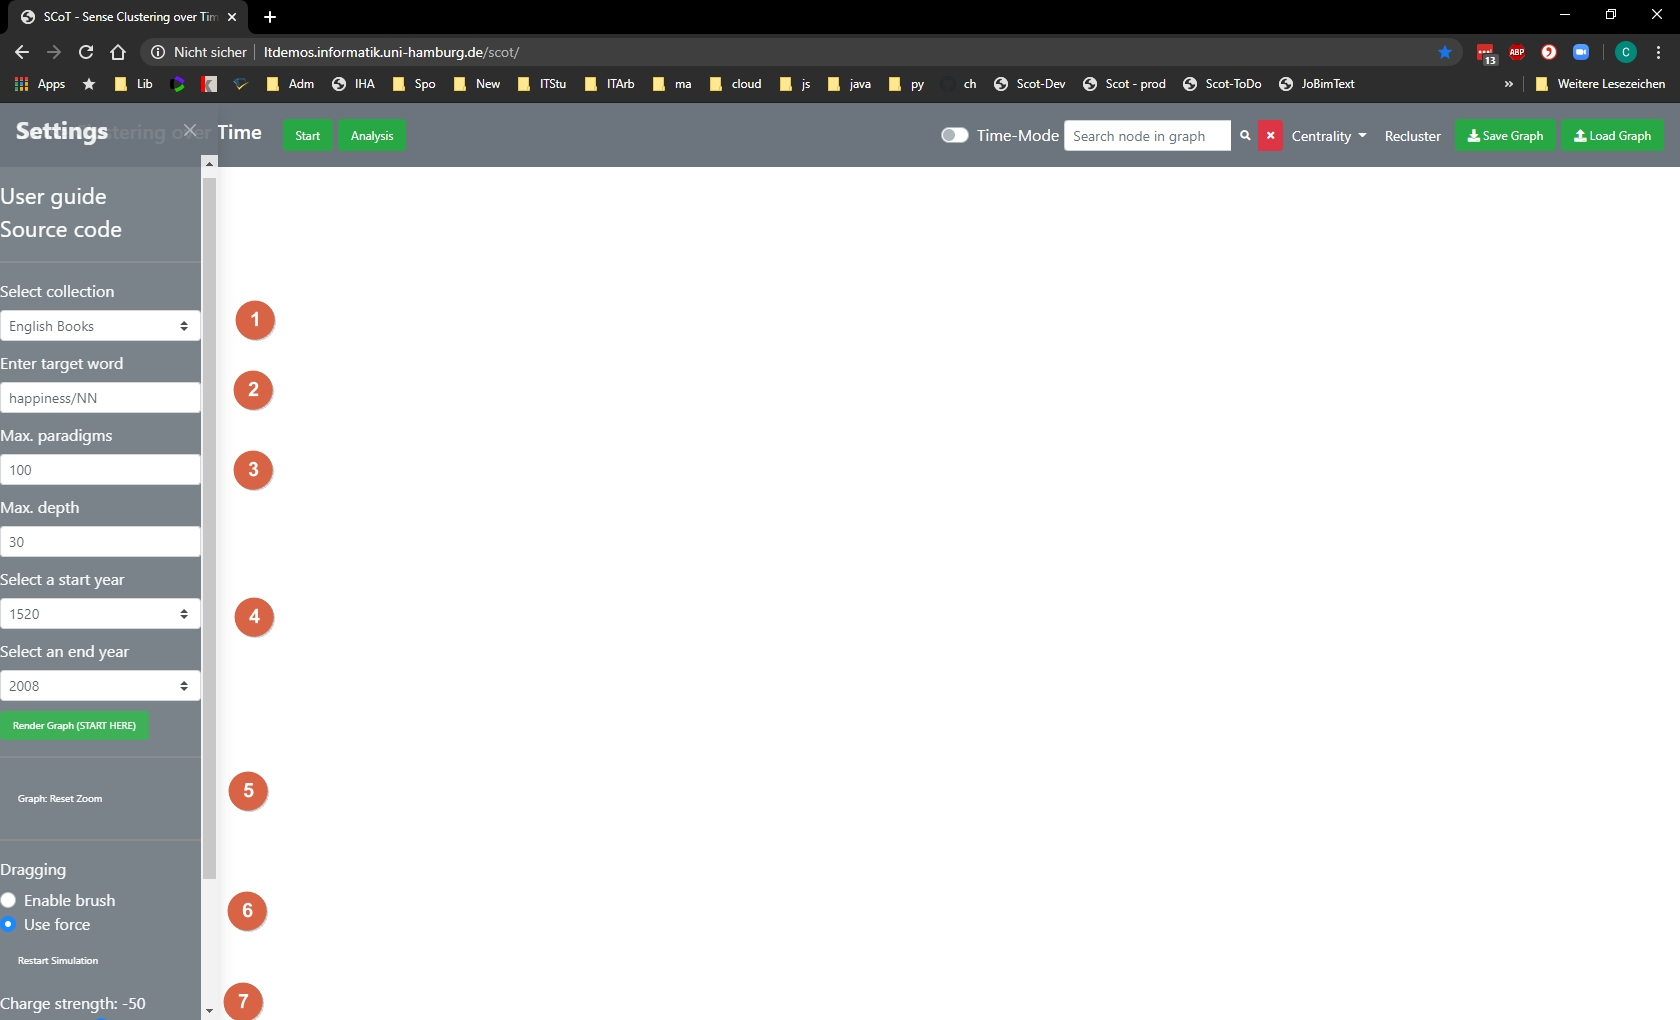
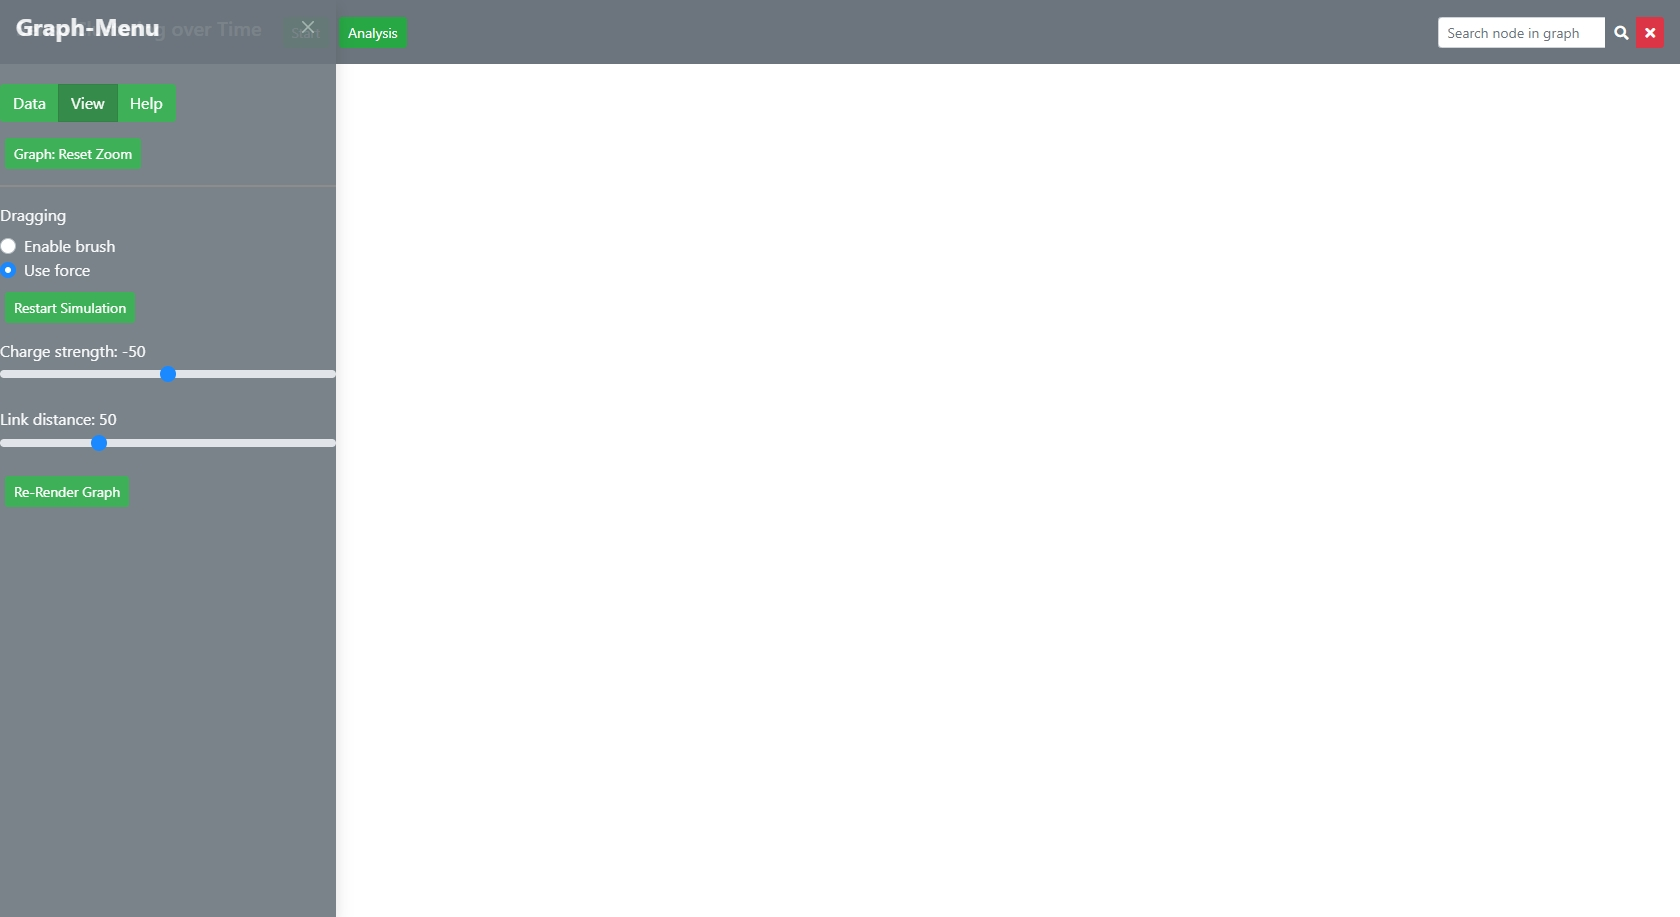
various user guide updates

Changed region(s): [[0.0, 0.0, 1.0, 1.0], [0.0, 0.8244, 0.0619, 0.9466], [0.0, 0.7634, 0.0619, 0.7939]]

diff --git a/clusters.md b/clusters.md
@@ -1,13 +1,14 @@
-# Editing the Graph via the Functions of the Editing Sidebar
+# Cluster-Analysis-Menu
 
 [Back to user guide contents list](userGuide.md)
 
-The graph and the clusters produced by the program can be edited and, if necessary, corrected. The user can decide between two different dragging behaviours, as well as influence parameters of the force simulation, which is used to calculate the position of the nodes in the graph. In this section I will describe all the functionalities avaibable in the toggable editing sidebar. For more information on how to manipulate the graph directly, see [the section on interacting with the graph](interacting.md).
+After clicking the Analysis - Button on the Navigation-Bar, the user is presented with an analysis-menu on the right-hand side of the screen. The Cluster-Setting brings up a  list of the clusters for further analysis and editing.
+
+![Analysis Menu](./images/03_analysis_menu.jpg)
+
 
 ## Contents
 
-* [Choosing the Dragging Behaviour](#choosing-the-dragging-behaviour)
-* [Manipulate the Simulation](#manipulate-the-simulation)
 * [Editing the Clusters](#editing-the-clusters)
 * [Edit Cluster Name](#edit-cluster-name)
 * [Edit Cluster Colour](#edit-cluster-colour)
@@ -16,53 +17,16 @@ The graph and the clusters produced by the program can be edited and, if necessa
 * [Delete Complete Cluster](#delete-complete-cluster)
 
 
-## Choosing the Dragging Behaviour
-
-![Dragging Behaviour Setting](./images/dragging_restart_sim.png)
-
-The user can select between two different kinds of dragging behaviour.
-
-1. **Enable brush (no force).** This enables to user to select multiple nodes at the same time using a brush movement and dragging all of them at the same time to a different position. The force is not acitve, so that the other nodes to not reposition themselves.
-2. **Use force (no brush available).** This is the default dragging behaviour. Only one node can be dragged at a time and the other nodes reposition themselves according to the force simulation. The dragged node is then fixed to its new position, which means that its position does not change if the force parameters are updated or other nodes dragged somewhere.
-
-All the nodes that are fixed to their position can be released by clicking on the button "Restart Simulation".
-
-For how to drag nodes in the graph, see [the section on interacting with the graph](interacting.md).
-
-[To the top](#editing-the-graph-via-the-functions-of-the-editing-sidebar)
-
-
-## Manipulate the Simulation
-
-![Default Simulation Settings](./images/default_simulation_settings.png)
-
-SCoT lets you edit two simulation parameters: the charge strength between the nodes and the link distance.
-The default value for the charge strength is -50, the default value for the link distance is 50.
-A graph with 100 nodes, 30 edges and these simulation parameter values looks like this:
-
-![Default Graph](./images/graph_for_intro.png){:height="75%" width="75%"}
-
-The use can change the value of the charge strength from values in the range of -200 to 100. Changing the charge strength influences the repelling forces between the nodes. The same graph with a charge strength of -100 and the default link distance looks as follows:
-
-![Graph Charge -100](./images/graph_charge-100.png)
-
-As a rule of thumb, a negative charge strength pushes the nodes further apart, simulating repulsion, and a positive charge strength pushes nodes together, simulating gravity or attraction.
-
-
-The link distance influences the distance between nodes and therefore the length of the edges between them. A high link distance means a long distance between nodes, a low link distance means a small distance between nodes. The following example shows and graph with a link distance of 150 and the default charge.
-
-![Graph Link Distance 360](./images/graph_linkdistance150.png) 
-
 [To the top](#editing-the-graph-via-the-functions-of-the-editing-sidebar)
 
 
 ## Editing the Clusters
 
-In the edit column all the clusters in the graph are listed. For each cluster there are three buttons: one to edit the cluster and another to display a list of all the nodes contained in the respective cluster, and one to delete the cluster.
+In the edit column all the clusters in the graph are listed. For each cluster there are four buttons: one to show the nodes of the cluster, one to show the context-words that are shared by all nodes of the cluster, one to edit the cluster and another to delete the cluster.
 
 ![Cluster List](./images/cluster_list.png)
 
-When hovering over the coloured circle next to the cluster name, all the nodes and edges in the graph belonging to the cluster are faded in in the graph.
+When hovering over the cluster and context buttons, all the nodes and edges in the graph belonging to the cluster are faded in in the graph.
 
 ![Fade In Cluster](./images/show_cluster_in_graph2.png)
 
@@ -98,7 +62,14 @@ The user can edit multiple clusters before clicking the "Apply" button to make t
 [To the top](#editing-the-graph-via-the-functions-of-the-editing-sidebar)
 
 
-## Add Cluster Node
+## Delete Complete Cluster
+
+Complete cluster can be deleted via the button with the trash icon. The user then has to confirm the deletion in a confirmation message. When the user confirms all the nodes and links of the cluster are deleted.
+
+![Confirm Cluster Deletion](./images/confirmation_cluster_deletion.png){:height="75%" width="75%"}
+
+
+## Add Cluster Node [currently under revision - not enabled]
 
 The user can also add a special node with the cluster name to the graph for each cluster - sort of like a label for a cluster. This node has edges to all the other nodes in the cluster.
 
@@ -122,12 +93,5 @@ The same behaviour is displayed when updating the graph.
 In case the user wants to get rid of the cluster node of a cluster, they have two possibilities. Both are explained in [the section on interacting with the graph](interacting.md).
 
 [To the top](#editing-the-graph-via-the-functions-of-the-editing-sidebar)
-
-
-## Delete Complete Cluster
-
-Complete cluster can be deleted via the button with the trash icon. The user then has to confirm the deletion in a confirmation message. When the user confirms all the nodes and links of the cluster are deleted.
-
-![Confirm Cluster Deletion](./images/confirmation_cluster_deletion.png){:height="75%" width="75%"}
 
 [To the top](#editing-the-graph-via-the-functions-of-the-editing-sidebar)

diff --git a/intro.md b/intro.md
@@ -4,30 +4,28 @@
 
 You can find SCoT at <http://ltdemos.informatik.uni-hamburg.de/scot/>
 
-SCoT is a scholarly software for the graph-based analysis of distributional semantics over time. The software has emerged from interdisciplinary cooperation among computer scientists, computational linguists and humanities scholars. It has been propelled forward by the growing availability of very large corpora of time-sliced digitized texts such as Google Books. There are manifold use cases. SCoT has been used, for example, to unearth the changing meaning of "network" from the fishing-metaphors of the medieval ages to the digital era.
+SCoT is a scholarly software for the graph-based analysis of distributional semantics over time. There are manifold use cases. SCoT has been used, for example, to unearth the changing meaning of "network" from the fishing-metaphors of the medieval ages to the digital era.
 
 ![A clustered graph](./images/00appwithgraph.jpg "Clustered graph for target word 'happiness/NN', 100 nodes, 30 edges per node, 1520-2008" )
 
-The user starts the programm by selecting a precalculated corpus [1] and a target-word [2]. The corpora include the original Google Books corpus. The calculation of the semantic similarity metrics is not done by SCoT. The metrics are precalculated by the JoBim-Framework. The main task of SCoT is to analyse these metrics in relation to the target-word with a clustered graph[8]. 
+The user starts the programm by selecting a precalculated corpus [1] and a target-word [2]. The metrics have been precalculated by the JoBim-Framework. The main task of SCoT is to analyse these metrics with a clustered graph[8]. The user can control the size and density of the graph with two parameters, the maximum number of (most) similar words to the main target-word [3] and the density of the interrelations. [4] 
 
-The most similar words and their interrelations are projected onto a graph. The user can control the size and density of the graph with two parameters, the maximum number of (most) similar words to the main target-word [3] and the density of the interrelations. [4] The values are then projected onto the graph by SCoT's main algorithm which was designed by Biemann. This main algorithm chooses the most similar words across all time-slices. The key to the analysis is the global threshold of paradigms [nodes] and their interrelations [edges] that is set by the user. This global limit determines which nodes are considered "relevant" and "irrelevant" across the selected time-slices [5,6] and thus determines the resulting senses of the target word. Each corpus comes with a pre-set but it is highly recommended to try out various parameters to get a "feel" for their effect.
-
- After the user clicks on "Render Graph" [7] - the algorithm runs in several stages. Firstly, it chooses the maximum similar values to the target word. These provide the nodes. Within this reference-frame of paradigms, the algorithm determines the edges. The graph is then clustered with the Chinese Whispers Algorithms by Biemann. 
+Scot then chooses the most similar words across all time-slices. The key to the analysis is the global threshold of paradigms [nodes] and their interrelations [edges] that is set by the user. This global limit determines which nodes are considered "born" or "dying" across the selected time-slices [5,6]. Each corpus comes with a pre-set of the parameters but it is highly recommended to try out various parameters to get a "feel" for their effect. The graph is created by clicking "Render Graph" [7]. 
  
- ## General Structure
 ![The general structure](./images/01workspace_arrow_start.jpg "The general structure of the user interface" )
-The picture above shows the general structure of the web page after a graph was rendered for the query "happiness/NN".
 
- 
- The resulting graph is a combination of maximum-values across time-slices. The time-slices can be gathered from the tool-tips of the nodes [4] and edges [5] and can also be visualized in various ways in the time-diff mode. After the initial graph has been calculated by SCoT, the user can edit and correct clusters in different ways. 
- Most of these functions are available via these three roots:
- [1] The Start-Button enables the shaping of the graph and the editing of the view settings that shape the display of the graph
+The picture above shows the general structure of the web page after a graph was rendered for the query "happiness/NN".
+The resulting graph is a combination of maximum-values across time-slices. The time-slices can be gathered from the tool-tips of the nodes [4] and edges [5] and can also be visualized in various ways in the time-diff mode. After the initial graph has been calculated by SCoT, the user can edit and correct clusters in different ways. Most of these functions are available via the three main ways of interacting with the application:
+
+ [1] The Start-Button slides out the Graph-Menu on the left which enables the shaping of the graph and the editing of the view settings that shape the display of the graph.  
  [More info on the settings sidebar](renderingGraph.md)  
- [2] The Analysis Button - brings up the cluster analysis section with the time-diff mode
+ 
+ [2] The Analysis Button - brings up the cluster analysis section with the time-diff mode on the right-hand side.  
  [More info on the analysis options](clusters.md)  
- [3] The Search Field allows the searching of nodes in the graph
- [4] The Nodes provide tooltips and can be clicked for contextual information
- [5] The edges provide tooltips and can be clicked for contextual information
- [More info on the contextual mode via nodes and edges]
+ [More info on the time-diff mode](timeDiff.md)
+ 
+ [3] The nodes and edges of the graph provide tooltips, can be dragged, rearranged, deleted and can be clicked for contextual information.  
+ [More info on the interaction with the graph](interacting.md)  
+ [More info on the contextual mode](context.md)
  
  

diff --git a/renderingGraph.md b/renderingGraph.md
@@ -1,4 +1,4 @@
-# Parameter Input and General Settings
+# Graph-Menu: Parameter Input and View Settings
 
 [Back to user guide contents list](userGuide.md)
 
@@ -10,29 +10,63 @@ A sidebar to change the general settings of SCoT and enter the parameters for re
 * [Rendering a Graph from a File](#rendering-a-graph-from-a-file)
 
 ## Parameter Input for Rendering a Graph
-When the user first opens SCoT, they may either render a new graph by entering the required parameters in the left column or they can load a previously stored graph again from a file.
+When the user first opens SCoT, it is recommended to click the START-button which brings up the graph-menu. The graph menu allows either to shape a new graph (as explained on the last page) OR to load and save a calculated graph. 
 
-The image shows a new session.
+![Clean new session](./images/00appwithgraph.jpg "New Session")
+
+Secondly, the user can set display settings, including  
+- resetting to the preset-display settings
+- Enabling interaction with the full graph or parts of it
+- Further, the graph is displayes using a force-directed algorithm. 
+
+The user can decide between two different dragging behaviours, as well as influence parameters of the force simulation, which is used to calculate the position of the nodes in the graph. For more information on how to manipulate the graph directly, see [the section on interacting with the graph](interacting.md).
+
 
 ![Clean new session](./images/02_settings.jpg "New Session")
+
+
+## Choosing the Dragging Behaviour
+
+![Dragging Behaviour Setting](./images/dragging_restart_sim.png)
+
+The user can select between two different kinds of dragging behaviour.
+
+1. **Enable brush (no force).** This enables to user to select multiple nodes at the same time using a brush movement and dragging all of them at the same time to a different position. The force is not acitve, so that the other nodes to not reposition themselves.
+2. **Use force (no brush available).** This is the default dragging behaviour. Only one node can be dragged at a time and the other nodes reposition themselves according to the force simulation. The dragged node is then fixed to its new position, which means that its position does not change if the force parameters are updated or other nodes dragged somewhere.
+
+All the nodes that are fixed to their position can be released by clicking on the button "Restart Simulation".
+
+For how to drag nodes in the graph, see [the section on interacting with the graph](interacting.md).
+
+[To the top](#editing-the-graph-via-the-functions-of-the-editing-sidebar)
+
+
+## Manipulate the Simulation
+
+![Default Simulation Settings](./images/default_simulation_settings.png)
+
+SCoT lets you edit two simulation parameters: the charge strength between the nodes and the link distance.
+The default value for the charge strength is -50, the default value for the link distance is 50.
+A graph with 100 nodes, 30 edges and these simulation parameter values looks like this:
+
+![Default Graph](./images/graph_for_intro.png){:height="75%" width="75%"}
+
+The use can change the value of the charge strength from values in the range of -200 to 100. Changing the charge strength influences the repelling forces between the nodes. The same graph with a charge strength of -100 and the default link distance looks as follows:
+
+![Graph Charge -100](./images/graph_charge-100.png)
+
+As a rule of thumb, a negative charge strength pushes the nodes further apart, simulating repulsion, and a positive charge strength pushes nodes together, simulating gravity or attraction.
+
+
+The link distance influences the distance between nodes and therefore the length of the edges between them. A high link distance means a long distance between nodes, a low link distance means a small distance between nodes. The following example shows and graph with a link distance of 150 and the default charge.
+
+![Graph Link Distance 360](./images/graph_linkdistance150.png) 
 
 [To the top](#parameter-input-and-general-settings)
 
 
-### Rendering a New Graph from the Database
 
-If the user wants to render a new graph from the database, he or she needs to specify some parameters.  
-  
-Firstly, there are parameters that affect the data-basis, content, time-context and structure of the graph
-(1) The user needs to pick a database. This brings up several presets for the other settings-options which can be modified by the user.   
-(2) The user needs to choose a target word. 
-(3) The user needs to be specify how many nodes the graph should contain (a.k.a. "Number of neighbours"), as well as the maximum number of edges on a node. default, the number of neighbours is set to 100 (regulating the number of visible paradigms) and the maximum number of edges per paradigm is set to 30 (regulating the density of the graph, smaller numbers result usually in more clusters).  
-(4) The user needs to set the start and end years for the time-slice-interval analysis. Per default, this is set to encompass all the time slices (1520 - 2008 for Google Books).   
-  
-Secondly, the user can set display settings, including  
-(5) resetting to the preset-display settings
-(6) Enabling interaction with the full graph or parts of it
-(7) Further, the graph is displayes using a force-directed algorithm. The strength of the force can be altered and the distance between nodes.  
+
 
 <!-- Leave note -->
 **Note:** For the Google Books data, the respective part-of-speech tag needs to be appended to the query word. The correct query word for “crisis” would therefore be “crisis/NN” or “crisis/NNP”. The data uses the [Penn Treebank POS tags](https://www.ling.upenn.edu/courses/Fall_2003/ling001/penn_treebank_pos.html). Other data might have different tags, or none.

diff --git a/index.md b/index.md
@@ -2,7 +2,7 @@ SCoT (Sense Clustering over Time) [Verison2] is a web application to view the se
 
 The functionalities and usage are described in the [user guide](userGuide.md). If you would like to deploy SCoT yourself or keep working on it see the [installation guide](installationGuide.md) for developers for more information.
 
-The project is maintained by the [Language Technology Group at Universität Hamburg](https://www.inf.uni-hamburg.de/en/inst/ab/lt/home.html). The second version [Vue-Frontend, Flask-Backend + ElasticSearch + Docker] was developed by Christian Haase, the first one by Inga Kempfert. Scot uses data that are calculated with JoBim. It is thus the end-part of a larger NLP-pipeline. Calcuations with JoBim for the SCoT-data of Version 2 were done by Seid Yimam and Saba Anwar. The underlying concepts and algorithms for SCoT are based on the publications by Biemann, Friedrich, Riedel et. al.. The time-slicing of Google books was pioneered by Goldberg and Orwant.
+The project is maintained by the [Language Technology Group at Universität Hamburg](https://www.inf.uni-hamburg.de/en/inst/ab/lt/home.html). Version 2 of SCoT is a major update which was developed by Christian Haase. Inga Kempfert was the lead dev of Version 1. Scot uses data that are calculated with JoBim. It is thus part of a larger NLP-pipeline. Calcuations with JoBim for the SCoT-data of Version 2 were done by Seid Yimam and Saba Anwar. The underlying concepts and algorithms for SCoT are based on the publications by Biemann, Friedrich, Riedel et. al.. (see below) The time-slicing of Google books was pioneered by Goldberg and Orwant.
 
 **Developers:**
 * [Christian Haase](https://www2.informatik.uni-hamburg.de/fiona/pers.php?lang=de#haase) [Version 2]

diff --git a/interacting.md b/interacting.md
@@ -1,17 +1,17 @@
-# Interacting with the Graph
+# Interacting with the Graph-Nodes and Edges
 
 [Back to user guide contents list](userGuide.md)
 
-This section describes how the user can manipulate the graph directly.
+This section describes how the user can manipulate the graph directly and interact with nodes and edges.
 
 ## Contents
 
 * [Hover over Nodes](#hover-over-nodes)
 * [Dragging Nodes](#dragging-nodes)
 * [The Node Options Menu](#the-node-options-menu)
-	* [Assigning a Node to a Different Cluster](#asigning-a-node-to-a-different-cluster)
-	* [Creating a New Cluster for a Node](#creating-a-new-cluster-for-a-node)
-	* [Deleting a Node](#deleting-a-node)
+* [Assigning a Node to a Different Cluster](#asigning-a-node-to-a-different-cluster)
+* [Creating a New Cluster for a Node](#creating-a-new-cluster-for-a-node)
+* [Deleting a Node](#deleting-a-node)
 
 
 ## Hover over Nodes
